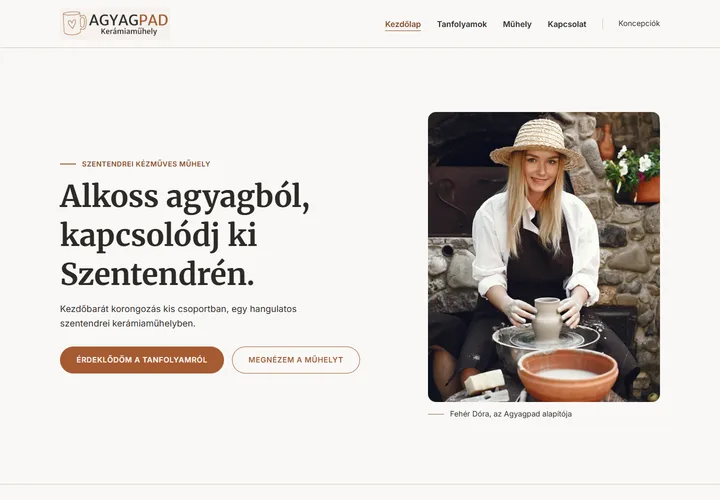
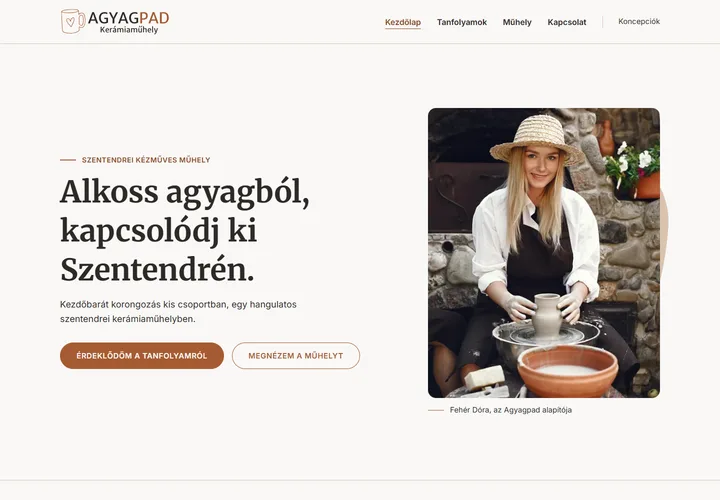
Udvari műhely: átlátszó logó, idővonal és organikus részletek

diff --git a/koncepcio-1-udvari-muhely.html b/koncepcio-1-udvari-muhely.html
@@ -74,7 +74,7 @@
     .site-header { border-bottom: 1px solid var(--sand); }
     .header-row { display: flex; align-items: center; flex-wrap: wrap; justify-content: space-between; gap: 0 1rem; padding-block: 1rem; }
     .brand { display: inline-flex; align-items: center; width: min(12rem, 65%); min-height: 3rem; }
-    .brand img { width: 100%; height: auto; }
+    .brand img { width: 100%; height: auto; background: transparent; }
     .menu { display: none; }
     .menu-icon { display: grid; align-content: center; gap: 4px; width: 20px; height: 20px; }
     .menu-icon::before, .menu-icon::after { content: ''; width: 20px; height: 2px; background: currentColor; }
@@ -96,6 +96,11 @@
     .button:disabled { cursor: default; background: var(--sand); border-color: var(--ink); color: var(--ink); }
     .photo { width: 100%; height: auto; object-fit: cover; border-radius: 1rem; }
     .hero-photo { aspect-ratio: 4/5; object-position: 50% 30%; }
+    .photo-surround { position: relative; isolation: isolate; }
+    .photo-surround::before { content: ''; position: absolute; z-index: -1; pointer-events: none; background: var(--sand); border-radius: 43% 57% 38% 62% / 56% 36% 64% 44%; }
+    .hero .photo-surround::before { inset: 5% -12px 9% 7%; transform: rotate(4deg); }
+    .story .photo-surround::before { inset: 6% 6% -12px -12px; background: color-mix(in srgb, var(--clay) 18%, var(--paper)); transform: rotate(-4deg); }
+    .photo-surround .photo { position: relative; }
     .portrait-caption { display: flex; align-items: center; gap: .75rem; margin-top: .75rem; font-size: var(--small); }
     .portrait-caption::before { content: ''; width: 2rem; border-top: 1px solid var(--clay); }
     .chapter { padding-block: var(--section); border-top: 1px solid var(--sand); }
@@ -110,15 +115,19 @@
     .course-bottom { margin-top: auto; border-top: 1px solid var(--sand); padding-top: 1rem; }
     .price { font-size: 1rem; line-height: 1.5; font-weight: 600; }
     .course-bottom .button { margin-top: 1rem; width: 100%; }
-    .notes { margin-top: 2rem; border-radius: 1rem; background: var(--sand); padding: 1.5rem; display: grid; align-items: start; gap: 1.5rem; }
-    .notes ul { padding-left: 1.2em; font-size: 1rem; }
-    .notes li + li { margin-top: .5rem; }
+    .notes { margin-top: 2rem; border-radius: 1rem; background: var(--sand); padding: 1.5rem; }
+    .notes h3 { margin-bottom: 1.5rem; }
+    .notes-grid { display: grid; gap: 1.5rem 2rem; list-style: none; padding: 0; font-size: 1rem; }
+    .notes-grid li { display: grid; grid-template-columns: 1.5rem minmax(0, 1fr); gap: .75rem; align-items: start; }
+    .note-icon { width: 1.5rem; height: 1.5rem; margin-top: .1rem; color: var(--earth); }
     .story, .shop, .contact-grid { display: grid; gap: 2rem; align-items: center; }
     .story-photo { aspect-ratio: 4/5; object-position: 42% 50%; }
     .story-text h2 { margin-bottom: 1.5rem; }
-    .timeline { display: grid; gap: 1.5rem; list-style: none; padding: 0; margin-block: 3rem; }
-    .timeline li { border-top: 1px solid var(--sand); padding-top: 1rem; }
-    .timeline time { display: block; font: 600 1.5rem/1.3 var(--heading); color: var(--earth); margin-bottom: .75rem; }
+    .timeline { position: relative; display: grid; gap: 2rem; list-style: none; padding: 0 0 0 1.75rem; margin-block: 3rem; }
+    .timeline::before { content: ''; position: absolute; left: 6px; top: 8px; bottom: 1rem; width: 1px; background: var(--clay); }
+    .timeline li { position: relative; }
+    .timeline li::before { content: ''; position: absolute; left: -1.75rem; top: 7px; width: 13px; height: 13px; border-radius: 50%; background: var(--clay); box-shadow: 0 0 0 5px var(--paper); }
+    .timeline time { display: block; font: 700 1.5rem/1.3 var(--heading); color: var(--clay); margin-bottom: .75rem; }
     .timeline strong { display: block; line-height: 1.5; margin-bottom: .25rem; }
     .timeline li, .shop-details, .address-note { font-size: var(--small); }
     .shop { border-block: 1px solid var(--sand); padding-block: 2rem; }
@@ -149,7 +158,7 @@
     footer { background: var(--sand); padding-block: 3rem 2rem; font-size: var(--small); }
     .footer-grid { display: grid; gap: 2rem; margin-bottom: 2rem; }
     footer h3 { font: 600 1.125rem/1.5 var(--heading); margin-bottom: 1rem; }
-    footer .brand { margin-bottom: 1rem; padding: .5rem .75rem; background: var(--paper); border-radius: 1rem; }
+    footer .brand { margin-bottom: 1rem; padding: 0; background: transparent; border-radius: 0; }
     footer a { color: var(--ink); }
     .footer-links a { display: flex; align-items: center; width: fit-content; min-height: 3rem; }
     .footer-grid .address-note { margin-top: .25rem; }
@@ -168,6 +177,8 @@
       .menu[aria-expanded='true'] .menu-icon::after { transform: translateY(-3px) rotate(-45deg); }
     }
     @media (max-width: 47.999rem) {
+      .hero .photo-surround::before { inset: 5% -4px 9% 7%; transform: rotate(2deg); }
+      .story .photo-surround::before { inset: 6% 6% -8px -4px; transform: rotate(-2deg); }
       .nav-group { display: block; }
       .site-nav { align-items: stretch; flex-direction: column; }
       .concept-link { display: flex; border-top: 1px solid var(--sand); }
@@ -180,11 +191,16 @@
       .hero figure { width: 100%; max-width: 29rem; justify-self: end; }
       .cards { grid-template-columns: repeat(3, minmax(0, 1fr)); gap: 1rem; }
       .course-body { padding: 1rem; }
-      .notes { grid-template-columns: 1fr 2fr; gap: 2rem; padding: 2rem; }
+      .notes { padding: 2rem; }
+      .notes h3 { margin-bottom: 2rem; }
+      .notes-grid { grid-template-columns: repeat(2, minmax(0, 1fr)); }
       .story { grid-template-columns: minmax(0, .85fr) minmax(0, 1.15fr); }
       .story figure { grid-row: 1; }
       .story-photo { max-height: 32rem; }
-      .timeline { grid-template-columns: repeat(4, minmax(0, 1fr)); }
+      .timeline { grid-template-columns: repeat(4, minmax(0, 1fr)); padding: 0; gap: 0; }
+      .timeline::before { top: 6px; bottom: auto; left: 6px; right: calc(25% - 6px); width: auto; height: 1px; }
+      .timeline li { padding: 2rem 1.25rem 0 0; }
+      .timeline li::before { left: 0; top: 0; }
       .shop { grid-template-columns: 1fr 1fr; }
       .contact-grid { grid-template-columns: minmax(0, 1.25fr) minmax(0, .75fr); }
       .fields { grid-template-columns: repeat(2, minmax(0, 1fr)); }
@@ -199,12 +215,13 @@
       .hero .button, .send { padding-inline: 2rem; }
       .eyebrow { font-size: .875rem; }
       .chapter-heading { margin-bottom: 3rem; }
-      .cards, .timeline { gap: 2rem; }
+      .cards { gap: 2rem; }
       .course-body, .aside-text { padding: 2rem; }
       .course-bottom .price { min-height: 3rem; }
       .notes { margin-top: 3rem; }
       .story, .shop, .contact-grid { gap: 3rem; }
       .timeline { margin-block: 4rem; }
+      .timeline time { font-size: 1.75rem; }
       .footer-grid { gap: 4rem; }
     }
     @media (min-width: 48rem) and (max-width: 59rem) {
@@ -222,7 +239,7 @@
   <a class="skip" href="#tartalom">Ugrás a tartalomra</a>
   <header class="site-header">
     <div class="wrap header-row">
-      <a class="brand" href="#kezdo" aria-label="Agyagpad – kezdőlap"><img src="images/webp/agyagpad-logo.webp" width="1040" height="300" alt=""></a>
+      <a class="brand" href="#kezdo" aria-label="Agyagpad – kezdőlap"><img src="images/logo/Agyagpad-logo-transparent.svg" width="1137" height="285" alt=""></a>
       <button class="menu" type="button" aria-controls="oldalmenu" aria-expanded="false"><span class="menu-icon" aria-hidden="true"></span><span class="menu-label">Menü</span></button>
       <div class="nav-group" id="oldalmenu">
         <nav class="site-nav" aria-label="Fő navigáció"><a href="#kezdo">Kezdőlap</a><a href="#tanfolyamok">Tanfolyamok</a><a href="#muhely">Műhely</a><a href="#kapcsolat">Kapcsolat</a></nav>
@@ -241,7 +258,7 @@
           <a class="button outline" href="#muhely">Megnézem a műhelyt</a>
         </div>
       </div>
-      <figure>
+      <figure class="photo-surround">
         <img class="photo hero-photo" src="images/webp/hero-800.webp"
               srcset="images/webp/hero-480.webp 480w, images/webp/hero-800.webp 800w, images/webp/hero-1200.webp 1200w, images/webp/hero-1600.webp 1600w"
               sizes="(max-width: 767px) calc(100vw - 40px), (max-width: 1200px) 42vw, 464px" width="3193" height="4784" loading="eager" fetchpriority="high" decoding="async"
@@ -304,12 +321,12 @@
         </div>
         <aside class="notes" aria-labelledby="tudnivalok">
           <h3 id="tudnivalok">Amit érdemes tudnod</h3>
-          <ul>
-            <li>Legfeljebb hatfős csoportban dolgozunk, a kezdő programokhoz előképzettség nem szükséges.</li>
-            <li>A díj tartalmazza az agyagot, a mázat és a két égetést.</li>
-            <li>Az elkészült tárgyak az utolsó foglalkozás után két héttel vehetők át.</li>
-            <li>A tanfolyamon a tanulás és az alkotás élménye a fontos; meghatározott darabszámot vagy hibátlan végeredményt nem garantálunk.</li>
-            <li>Az időbeosztás tájékoztató jellegű. A bemutatott működés szerint a konkrét indulás és a szabad férőhely külön egyeztetéssel tisztázható.</li>
+          <ul class="notes-grid">
+            <li><svg class="note-icon" viewBox="0 0 24 24" fill="none" stroke="currentColor" stroke-width="1.5" aria-hidden="true" focusable="false"><circle cx="12" cy="12" r="9"/><path d="m8 12 2.5 2.5L16 9" stroke-linecap="round" stroke-linejoin="round"/></svg><span>Legfeljebb hatfős csoportban dolgozunk, a kezdő programokhoz előképzettség nem szükséges.</span></li>
+            <li><svg class="note-icon" viewBox="0 0 24 24" fill="none" stroke="currentColor" stroke-width="1.5" aria-hidden="true" focusable="false"><circle cx="12" cy="12" r="9"/><path d="m8 12 2.5 2.5L16 9" stroke-linecap="round" stroke-linejoin="round"/></svg><span>A díj tartalmazza az agyagot, a mázat és a két égetést.</span></li>
+            <li><svg class="note-icon" viewBox="0 0 24 24" fill="none" stroke="currentColor" stroke-width="1.5" aria-hidden="true" focusable="false"><circle cx="12" cy="12" r="9"/><path d="m8 12 2.5 2.5L16 9" stroke-linecap="round" stroke-linejoin="round"/></svg><span>Az elkészült tárgyak az utolsó foglalkozás után két héttel vehetők át.</span></li>
+            <li><svg class="note-icon" viewBox="0 0 24 24" fill="none" stroke="currentColor" stroke-width="1.5" aria-hidden="true" focusable="false"><circle cx="12" cy="12" r="9"/><path d="m8 12 2.5 2.5L16 9" stroke-linecap="round" stroke-linejoin="round"/></svg><span>A tanfolyamon a tanulás és az alkotás élménye a fontos; meghatározott darabszámot vagy hibátlan végeredményt nem garantálunk.</span></li>
+            <li><svg class="note-icon" viewBox="0 0 24 24" fill="none" stroke="currentColor" stroke-width="1.5" aria-hidden="true" focusable="false"><circle cx="12" cy="12" r="9"/><path d="m8 12 2.5 2.5L16 9" stroke-linecap="round" stroke-linejoin="round"/></svg><span>Az időbeosztás tájékoztató jellegű. A bemutatott működés szerint a konkrét indulás és a szabad férőhely külön egyeztetéssel tisztázható.</span></li>
           </ul>
         </aside>
       </div>
@@ -323,7 +340,7 @@
             <p>Fehér Dóra vagyok, az Agyagpad alapítója. Az első korongozó foglalkozásomon az fogott meg, hogy az agyag minden apró mozdulatra válaszol. Ebből a kíváncsiságból született meg később a saját szentendrei műhelyem.</p>
             <p>Ma olyan bögréket, tálakat és tányérokat készítek, amelyeket jó kézbe venni a hétköznapokban. A foglalkozásokon pedig azt szeretném megmutatni, hogyan indulhatsz el te is. Kis csoportban dolgozunk, hogy mindenkinek jusson figyelem és segítség az első mozdulatokhoz.</p>
           </div>
-          <figure><img class="photo story-photo" src="images/webp/hero1-800.webp"
+          <figure class="photo-surround"><img class="photo story-photo" src="images/webp/hero1-800.webp"
               srcset="images/webp/hero1-480.webp 480w, images/webp/hero1-800.webp 800w, images/webp/hero1-1200.webp 1200w, images/webp/hero1-1600.webp 1600w"
               sizes="(max-width: 767px) calc(100vw - 40px), (max-width: 1296px) 40vw, 490px" width="4784" height="3193" loading="lazy" decoding="async"
               alt="A szalmakalapos alkotó agyagedényt formáz az udvari korongnál."></figure>
@@ -417,7 +434,7 @@
     <div class="wrap">
       <div class="footer-grid">
         <div>
-          <a class="brand" href="#kezdo" aria-label="Agyagpad – kezdőlap"><img src="images/webp/agyagpad-logo.webp" width="1040" height="300" alt=""></a>
+          <a class="brand" href="#kezdo" aria-label="Agyagpad – kezdőlap"><img src="images/logo/Agyagpad-logo-transparent.svg" width="1137" height="285" alt=""></a>
           <p>Kézzel készült kerámiák és kezdőbarát korongozás Szentendrén. Bögrék, tálak és közös alkotóélmények, kis csoportban.</p>
         </div>
         <div>
@@ -433,8 +450,8 @@
         </div>
       </div>
       <div class="footer-bottom">
-        <div><span>© 2026 Agyagpad · AI webdesigner vizsgamunka</span><a href="adatkezeles.html?v=1">Adatkezelési tájékoztató</a></div>
-        <p>Az Agyagpad kitalált vállalkozás, az oldal bemutatóprojekt. Az űrlap nem foglal valódi tanfolyami helyet.</p>
+        <div><p class="project-credit">© 2026 Agyagpad · AI webdesigner vizsgamunka. Az Agyagpad kitalált vállalkozás, az oldal bemutatóprojekt.</p><a href="adatkezeles.html?v=1">Adatkezelési tájékoztató</a></div>
+        <p>Az űrlap nem foglal valódi tanfolyami helyet.</p>
         <p>A fotók a kitalált műhely és szereplő illusztrációi.</p>
       </div>
     </div>
@@ -516,3 +533,4 @@
   </script>
 </body>
 </html>
+

diff --git a/tervezes/design-system.md b/tervezes/design-system.md
@@ -1,6 +1,6 @@
 # Agyagpad – design system
 
-Verzió: 2.0 · 2026. november 11.  
+Verzió: 2.1 · 2026. november 11.  
 Állapot: rögzített Agyagpad-specifikáció, a felhasználó által megadott méretezési alap és a javított Figma-tábla alapján.
 
 ## 1. Források és az adatok státusza
@@ -328,3 +328,13 @@ A korábbi archivum/figma-arculat-ellenorzes.json a javítás előtti minták vi
 A megjelenő szövegek aktuális forrása a szomszédos szovegek.md. A korábbi komponenspéldákkal való szöveges eltéréskor ezt kövessük, különösen az űrlap siker- és hibajelzéseinél. A megjelenési szabályok továbbra is e design-system szerintiek. Az Agyagpad egyoldalas: a teljes kapcsolati űrlap egyszer jelenik meg, a kiegészítő tájékoztató és visszajelző oldalak csak a közös fejlécet és láblécet öröklik.
 
 
+
+## 14. Kiválasztott irány: Udvari műhely – első finomítás
+
+A felhasználó az Udvari műhely koncepciót választotta. Az alábbi szabályok ezt a változatot pontosítják, és az esetleg eltérő korábbi komponensleírásoknál elsőbbséget élveznek:
+
+- **Logó:** images/logo/Agyagpad-logo-transparent.svg a fejlécben és láblécben; átlátszó PNG-változat ugyanott Agyagpad-logo-transparent.png néven. A meglévő SVG vektoros előtérgrafikáját megőriztük, a fehér téglalapokat és a beágyazott háttérképet eltávolítottuk. A webes SVG nem tartalmaz raszteres képet. Nincs befoglaló háttér, keret vagy árnyék. Színek: #2D2A26 és #A65B32; a háttér mögötte #F9F8F6.
+- **Mérföldkövek:** 768 px-től négy állomásos vízszintes idővonal, 1 px terrakotta összekötő, 13 px-es terrakotta csomópont az évszám felett. Az évszám Merriweather 700, #A65B32; desktopon 28 px. Mobilon bal oldali függőleges vonal, egymás alatti állomások és 24 px-es évszám, vízszintes görgetés nélkül.
+- **Tudnivalók:** #D9C3B0 háttér, 16 px sugár. Öt tudnivaló kétoszlopos rácsban, 768 px alatt egy oszlopban. 24 px-es, dekoratív kör-pipa ikonok #8C4A27 színnel; a szöveg #2D2A26. A HTML-lista szemantikája megmarad, látható alap bullet nincs.
+- **Fotók:** 16 px lekerekítés. A nyitó portré mögött visszafogott homokszínű amorf folt; a bemutatkozó fotó mögött a terrakotta 18%-os, fő háttérrel kevert árnyalata. A dekoráció nem mozog, nem takarja a szöveget, és mobilon kisebb eltéréssel követi a képet. Új márkaszínt nem vezetünk be.
+- **Lábléc:** az alsó sáv kisméretű, olvasható sora: „© 2026 Agyagpad · AI webdesigner vizsgamunka. Az Agyagpad kitalált vállalkozás, az oldal bemutatóprojekt.” Az adatkezelési hivatkozás, a fotóillusztrációs megjegyzés és a valódi helyfoglalás kizárása megmarad. Az űrlap továbbra is helyi bemutató.

diff --git a/tervezes/szovegek.md b/tervezes/szovegek.md
@@ -64,9 +64,9 @@ Megvalósítási megjegyzés: a nyitvatartás a kitalált műhely bemutatott mű
 
 #### Alsó sor és projektjelzés
 
-- **Alsó sor:** © 2026 Agyagpad · AI webdesigner vizsgamunka
+- **Alsó sor (Udvari műhely):** © 2026 Agyagpad · AI webdesigner vizsgamunka. Az Agyagpad kitalált vállalkozás, az oldal bemutatóprojekt.
 - **Adatkezelési link:** Adatkezelési tájékoztató → `adatkezeles.html`
-- **Projektjelzés:** Az Agyagpad kitalált vállalkozás, az oldal bemutatóprojekt. Az űrlap nem foglal valódi tanfolyami helyet.
+- **Kiegészítő projektjelzés:** Az űrlap nem foglal valódi tanfolyami helyet. A kitalált vállalkozás jelölése a fenti alsó sor része, nem kell még egyszer külön megismételni.
 - **Képhasználati megjegyzés:** A fotók a kitalált műhely és szereplő illusztrációi.
 
 A szükséges képkreditek e megjegyzés alatt kapnak helyet, a ténylegesen felhasznált képek forrás- és licencadatai szerint. Pontos szövegük még nem ismert; helykitöltő vagy ellenőrizetlen szerzőnév nem kerül az éles láblécbe. Az évszám a kiadás éve, későbbi kiadáskor frissítendő.
@@ -278,3 +278,4 @@ Ez a szövegcsomag még nem jelenti a technikai SEO megvalósítását.
 3. A képekhez tartozó alt szövegek, a végleges képkiválasztás és kivágás után.
 
 A négy fő szekció, a közös fejléc és lábléc, a CTA-k és az űrlap állapotszövegei rögzítve vannak. Új ár, díj, garancia, válaszidő vagy szolgáltatás csak új tartalmi döntés alapján kerülhet a szövegekbe. Az Eliza-mintában szereplő vélemények, hírlevél, garanciák és külön oldalak nem részei az Agyagpad tartalmi tervének.
+

diff --git a/ellenorzes/eredmenyek.md b/ellenorzes/eredmenyek.md
@@ -39,4 +39,11 @@ Részletes méret- és forrásleltár: ../tervezes/arculat/webp-keplista.json. A
 
 ## Élesítés előtt
 
-Koncepcióválasztás és finomhangolás; valódi üzemeltetői adatok és űrlapfogadó; végleges adatkezelési tájékoztató; pontos képkreditek; SEO véglegesítése; éles Netlify-űrlap és próbaüzenet; AI-használat leírása és beadási csomag.
+### Udvari műhely – első finomítás ellenőrzése
+
+A felhasználó az első koncepciót választotta. A módosított oldal ismét átment a 320, 390 és 1440 px-es ellenőrzésen. Ellenőrizve az átlátszó SVG-logó, az idővonal mobil/asztali oszlopszáma, az öt ikonos tudnivaló és az egy-/kétoszlopos rács, a két organikus fotóháttér, az összevont láblécjelzés, a programválasztás, a menü és a helyi űrlap. A dekorációk mobilos vízszintes túlcsordulása javítva. Az SVG nem tartalmaz beágyazott képet vagy háttértéglalapot; a tartalmi fotók továbbra is WebP-k.
+
+### Hátralévő lépések
+
+Az Udvari műhely további finomhangolása; valódi üzemeltetői adatok és űrlapfogadó; végleges adatkezelési tájékoztató; pontos képkreditek; SEO véglegesítése; éles Netlify-űrlap és próbaüzenet; AI-használat leírása és beadási csomag.
+

diff --git a/README.md b/README.md
@@ -4,6 +4,8 @@ Az Agyagpad kitalált szentendrei kerámiaműhely bemutatóprojektje.
 
 ## A három elkészült weboldal-koncepció
 
+**Kiválasztott és továbbfejlesztett irány:** [Udvari műhely](koncepcio-1-udvari-muhely.html). Első finomítás: átlátszó vektoros logó, reszponzív mérföldkő-idővonal, ikonos tudnivalók, organikus fotóhátterek és összevont láblécjelzés. A másik két változat megmarad összehasonlításra.
+
 Nyisd meg az [index.html koncepcióválasztót](index.html) a böngészőben, akár dupla kattintással. A fotók, betűk, stílusok és interakciók helyi fájlokból működnek, nem igényelnek internetkapcsolatot vagy telepítést.
 
 1. [Udvari műhely](koncepcio-1-udvari-muhely.html) – személyes, osztott portrés nyitás.
